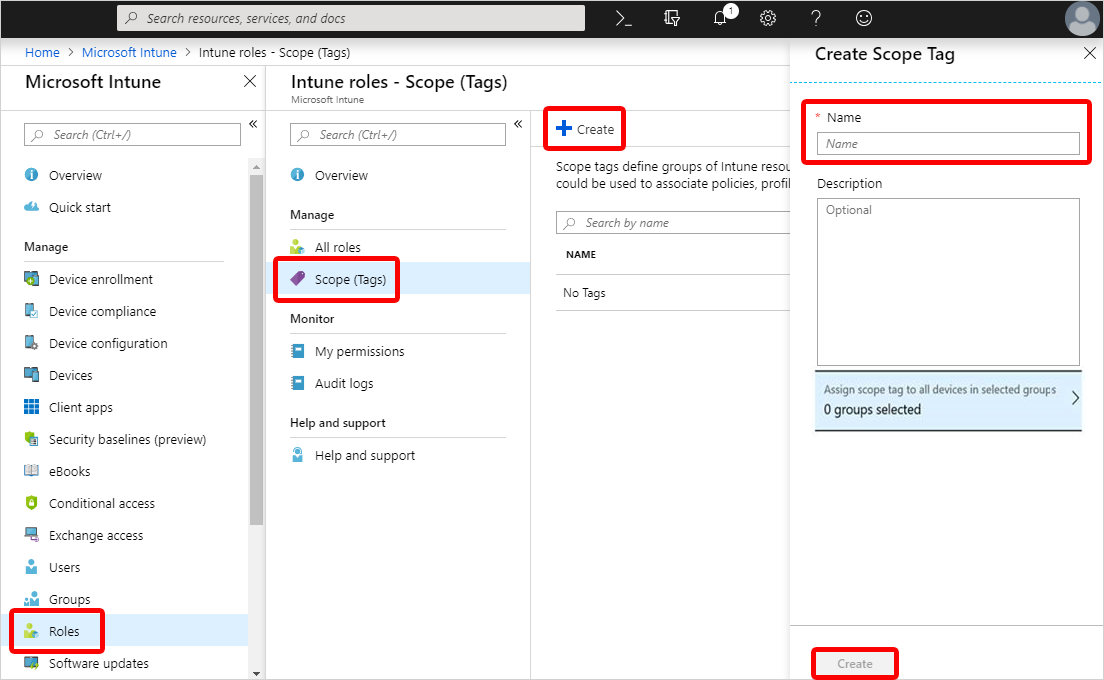
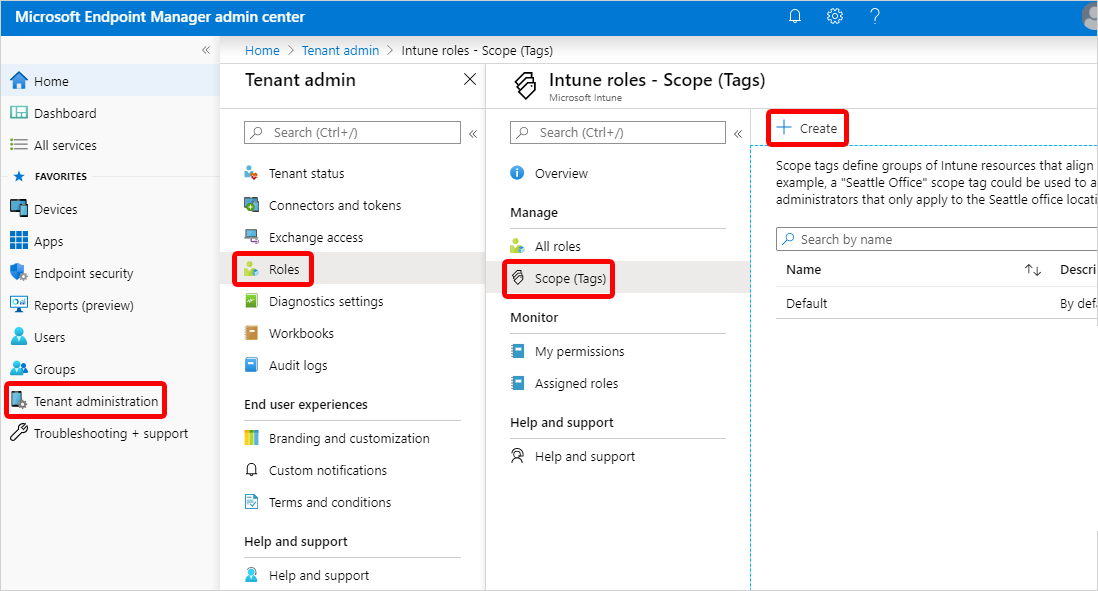
mem changes

diff --git a/intune/fundamentals/scope-tags.md b/intune/fundamentals/scope-tags.md
@@ -48,10 +48,11 @@ The default scope tag feature is similar to the security scopes feature in Syste
 
 ## To create a scope tag
 
-1. In Intune, choose **Roles** > **Scope (Tags)** > **Create**.
+1. In the [Microsoft Endpoint Manager Admin Center](https://go.microsoft.com/fwlink/?linkid=2109431), choose **Tenant administration** > **Roles** > **Scope (Tags)** > **Create**.
 
     ![Screenshot of create a scope tag.](./media/scope-tags/create-scope-tag.png)
 
+2. Provide a **Name** and optional **Description**.
 3. If you want all devices in specific groups, choose **Assign scope tag to all devices in selected groups**.
     1. In the **Select groups to include** page, choose the groups containing the devices that you want to assign this scope tag to.
     2. Choose **Select**.
@@ -59,10 +60,7 @@ The default scope tag feature is similar to the security scopes feature in Syste
 
 ## To assign a scope tag to a role
 
-1. In Intune, choose **Roles** > **All roles** > choose a role > **Assignments** > **Assign**.
-
-    ![Screenshot of assign scope to a role.](./media/scope-tags/assign-scope-to-role.png)
-
+1. In the [Microsoft Endpoint Manager Admin Center](https://go.microsoft.com/fwlink/?linkid=2109431), choose **Tenant administration** > **Roles** > **All roles** > choose a role > **Assignments** > **Assign**.
 2. Provide an **Assignment name** and **Description**.
 3. Choose **Members (Groups)** > **Add** > choose the groups that you want as part of this assignment > **Select** > **OK**. Users in this group will have permissions to manage users/devices in the Scope (Groups).
 
@@ -86,9 +84,7 @@ The default scope tag feature is similar to the security scopes feature in Syste
 
 For objects that support scope tags, scope tags usually appear under **Properties**. For example, to assign a scope tag to a configuration profile, follow these steps:
 
-1. In Intune, choose **Device configuration** > **Profiles** > choose a profile.
-
-    ![Screenshot of select profile.](./media/scope-tags/choose-profile.png)
+1. In the [Microsoft Endpoint Manager Admin Center](https://go.microsoft.com/fwlink/?linkid=2109431), choose **Devices** > **Configuration profiles** > choose a profile.
 
 2. Choose **Properties** > **Scope (Tags)** > **Add**.
 
